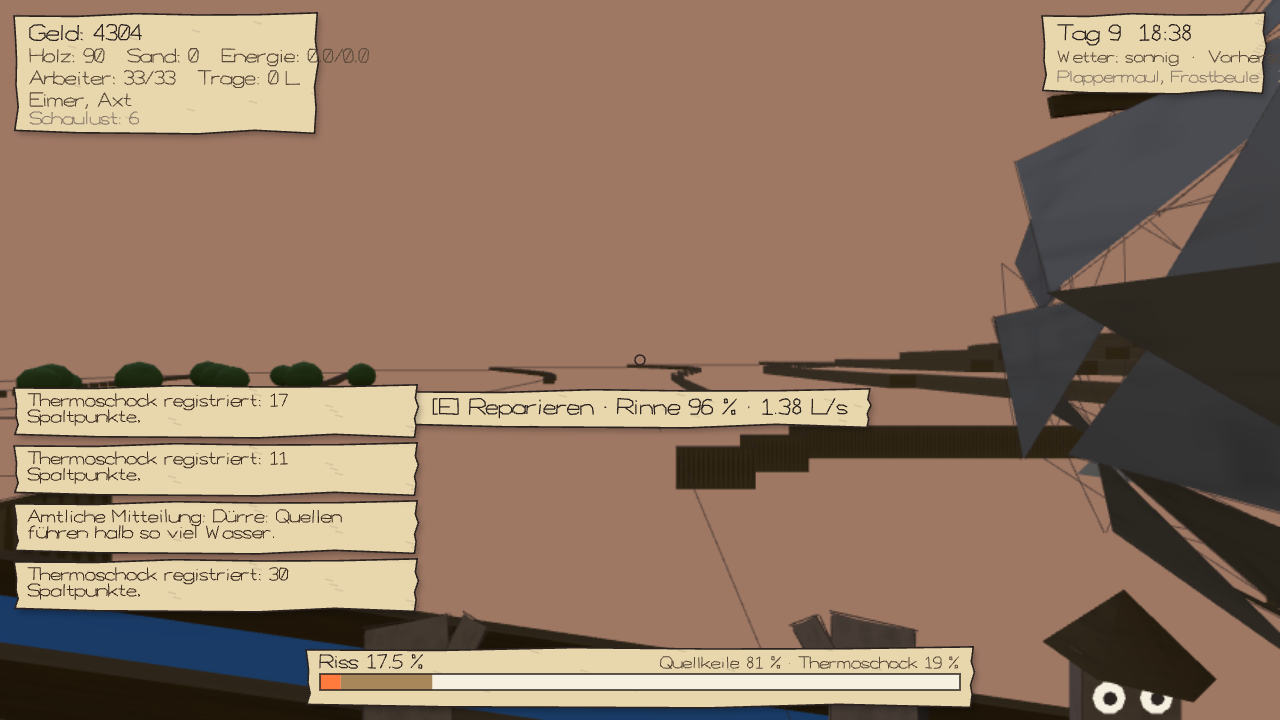
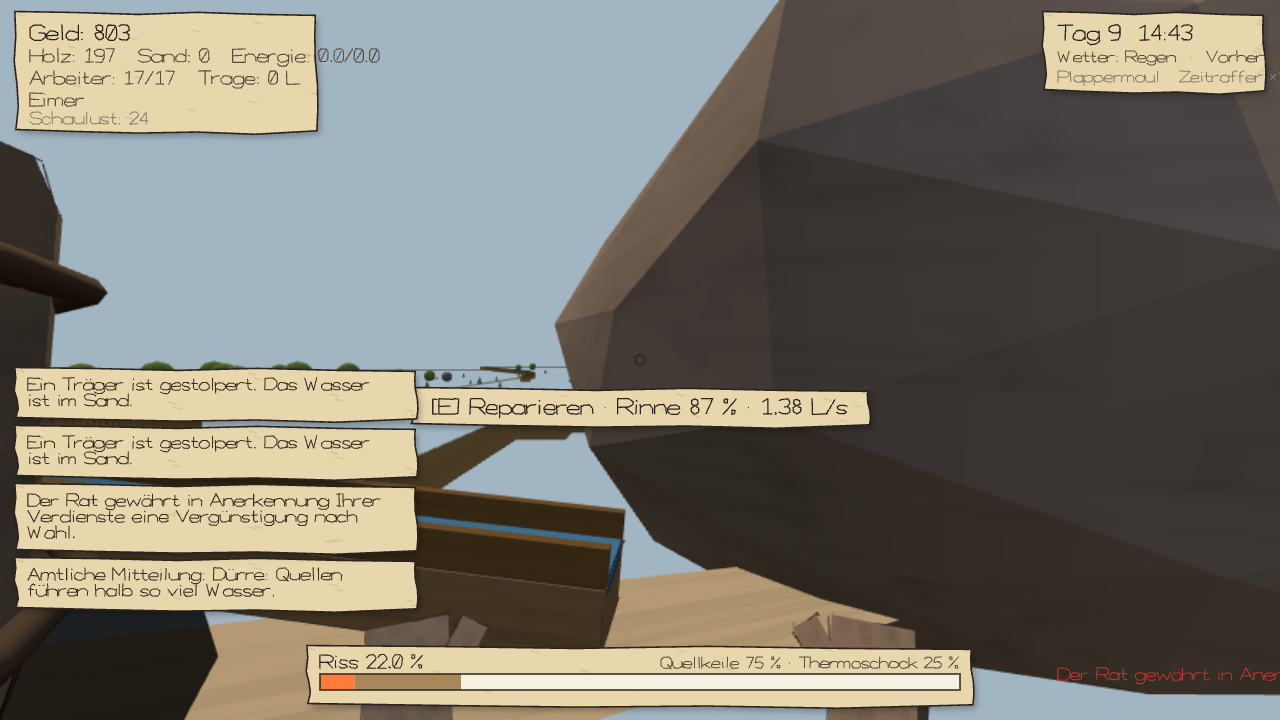
Balance grün: 20-Seed-Bericht, ABNAHME Abschnitte 1–2
Claude-Session: https://claude.ai/code/session_0181j52huuM6JzXWiBw5DSSE

diff --git a/docs/BALANCE.md b/docs/BALANCE.md
@@ -11,7 +11,7 @@ Regeln (docs/AUFTRAG.md, Auslegung in docs/ENTSCHEIDUNGEN.md): (a) je Kombinatio
 | hitzkopf | 29.2 | 20/20 | thermoschock (thermoschock 20) |
 | frostwart | 34.8 | 20/20 | frost (frost 20) |
 | tropfmeister | 42.7 | 20/20 | tropfen (tropfen 20) |
-| keilschlaeger | 32.7 | 20/20 | keile (keile 20) |
+| keilschlaeger | 32.0 | 20/20 | keile (keile 20) |
 | dampfkessel | 32.8 | 20/20 | dampf (dampf 20) |
 | ingenieur | 29.4 | 20/20 | strahl (strahl 20) |
 | gaertner | 45.6 | 20/20 | wurzel (wurzel 20) |
@@ -31,7 +31,7 @@ Koop abgestimmt 29.6 min vs nebeneinander 40.2 min = 0.74.
 | hitzkopf | 50.0 | 19/20 | thermoschock (thermoschock 20) |
 | frostwart | 39.8 | 20/20 | frost (frost 20) |
 | tropfmeister | 26.6 | 20/20 | tropfen (tropfen 20) |
-| keilschlaeger | 31.5 | 20/20 | keile (keile 20) |
+| keilschlaeger | 30.9 | 20/20 | keile (keile 20) |
 | dampfkessel | 39.0 | 20/20 | dampf (dampf 20) |
 | ingenieur | 25.7 | 20/20 | strahl (strahl 20) |
 | gaertner | 28.6 | 20/20 | wurzel (wurzel 20) |
@@ -51,11 +51,11 @@ Koop abgestimmt 22.4 min vs nebeneinander 23.6 min = 0.95.
 | hitzkopf | 52.0 | 20/20 | thermoschock (thermoschock 20) |
 | frostwart | 35.0 | 20/20 | frost (frost 20) |
 | tropfmeister | 30.1 | 20/20 | tropfen (tropfen 20) |
-| keilschlaeger | 28.5 | 20/20 | keile (keile 20) |
+| keilschlaeger | 28.1 | 20/20 | keile (keile 20) |
 | dampfkessel | 37.6 | 20/20 | dampf (dampf 20) |
 | ingenieur | 25.3 | 20/20 | strahl (strahl 20) |
 | gaertner | 30.3 | 20/20 | wurzel (wurzel 20) |
-| haendler | 30.0 | 20/20 | keile (keile 20) |
+| haendler | 29.8 | 20/20 | keile (keile 20) |
 | planlos | 90.0 | 0/20 | – (none 20) |
 | coop_abgestimmt | 23.8 | 20/20 | tropfen (tropfen 20) |
 | coop_nebeneinander | 27.2 | 20/20 | tropfen (tropfen 20) |
@@ -71,7 +71,7 @@ Koop abgestimmt 23.8 min vs nebeneinander 27.2 min = 0.87.
 | hitzkopf | 31.6 | 20/20 | thermoschock (thermoschock 20) |
 | frostwart | 42.0 | 20/20 | frost (frost 20) |
 | tropfmeister | 43.9 | 20/20 | tropfen (tropfen 20) |
-| keilschlaeger | 39.3 | 20/20 | keile (keile 20) |
+| keilschlaeger | 37.7 | 20/20 | keile (keile 20) |
 | dampfkessel | 38.5 | 20/20 | dampf (dampf 20) |
 | ingenieur | 27.9 | 20/20 | strahl (strahl 20) |
 | gaertner | 33.5 | 20/20 | wurzel (wurzel 20) |
@@ -171,7 +171,7 @@ Koop abgestimmt 35.4 min vs nebeneinander 35.3 min = 1.00.
 | hitzkopf | 44.0 | 20/20 | thermoschock (thermoschock 20) |
 | frostwart | 39.3 | 20/20 | frost (frost 20) |
 | tropfmeister | 43.2 | 20/20 | tropfen (tropfen 20) |
-| keilschlaeger | 30.5 | 20/20 | keile (keile 20) |
+| keilschlaeger | 29.5 | 20/20 | keile (keile 20) |
 | dampfkessel | 32.8 | 20/20 | dampf (dampf 20) |
 | ingenieur | 33.1 | 20/20 | strahl (strahl 20) |
 | gaertner | 53.6 | 20/20 | wurzel (wurzel 20) |
@@ -180,8 +180,8 @@ Koop abgestimmt 35.4 min vs nebeneinander 35.3 min = 1.00.
 | coop_abgestimmt | 28.6 | 20/20 | tropfen (tropfen 16, keile 4) |
 | coop_nebeneinander | 41.7 | 20/20 | tropfen (tropfen 20) |
 
-Bestzeit 30.5 min (keilschlaeger); innerhalb 20 %: keilschlaeger=keile, dampfkessel=dampf, ingenieur=strahl → 3 Methoden.
-Planlos: 90.0 min = 2.95 × Bestzeit.
+Bestzeit 29.5 min (keilschlaeger); innerhalb 20 %: keilschlaeger=keile, dampfkessel=dampf, ingenieur=strahl → 3 Methoden.
+Planlos: 90.0 min = 3.05 × Bestzeit.
 Koop abgestimmt 28.6 min vs nebeneinander 41.7 min = 0.68.
 
 ## kueste/kalkstein
@@ -190,19 +190,19 @@ Koop abgestimmt 28.6 min vs nebeneinander 41.7 min = 0.68.
 |---|---|---|---|
 | hitzkopf | 67.3 | 13/20 | thermoschock (thermoschock 20) |
 | frostwart | 63.9 | 15/20 | frost (frost 18, thermoschock 2) |
-| tropfmeister | 25.5 | 20/20 | tropfen (tropfen 20) |
-| keilschlaeger | 31.4 | 20/20 | keile (keile 20) |
+| tropfmeister | 26.7 | 20/20 | tropfen (tropfen 20) |
+| keilschlaeger | 30.4 | 20/20 | keile (keile 20) |
 | dampfkessel | 41.8 | 19/20 | dampf (dampf 20) |
 | ingenieur | 30.4 | 20/20 | strahl (strahl 20) |
 | gaertner | 38.0 | 20/20 | wurzel (wurzel 20) |
-| haendler | 32.1 | 20/20 | tropfen (tropfen 20) |
+| haendler | 33.5 | 20/20 | tropfen (tropfen 20) |
 | planlos | 90.0 | 0/20 | – (none 20) |
-| coop_abgestimmt | 21.6 | 20/20 | tropfen (tropfen 20) |
-| coop_nebeneinander | 23.8 | 20/20 | tropfen (tropfen 20) |
+| coop_abgestimmt | 22.1 | 20/20 | tropfen (tropfen 20) |
+| coop_nebeneinander | 25.7 | 20/20 | tropfen (tropfen 20) |
 
-Bestzeit 25.5 min (tropfmeister); innerhalb 20 %: tropfmeister=tropfen, ingenieur=strahl → 2 Methoden.
-Planlos: 90.0 min = 3.53 × Bestzeit.
-Koop abgestimmt 21.6 min vs nebeneinander 23.8 min = 0.91.
+Bestzeit 26.7 min (tropfmeister); innerhalb 20 %: tropfmeister=tropfen, keilschlaeger=keile, ingenieur=strahl → 3 Methoden.
+Planlos: 90.0 min = 3.37 × Bestzeit.
+Koop abgestimmt 22.1 min vs nebeneinander 25.7 min = 0.86.
 
 ## kueste/sandstein
 
@@ -210,19 +210,19 @@ Koop abgestimmt 21.6 min vs nebeneinander 23.8 min = 0.91.
 |---|---|---|---|
 | hitzkopf | 73.8 | 13/20 | thermoschock (thermoschock 20) |
 | frostwart | 54.5 | 17/20 | frost (frost 19, thermoschock 1) |
-| tropfmeister | 27.5 | 20/20 | tropfen (tropfen 20) |
-| keilschlaeger | 27.4 | 20/20 | keile (keile 20) |
+| tropfmeister | 29.2 | 20/20 | tropfen (tropfen 20) |
+| keilschlaeger | 26.5 | 20/20 | keile (keile 20) |
 | dampfkessel | 47.4 | 19/20 | dampf (dampf 20) |
 | ingenieur | 29.6 | 20/20 | strahl (strahl 20) |
 | gaertner | 38.1 | 20/20 | wurzel (wurzel 20) |
-| haendler | 30.0 | 20/20 | keile (keile 20) |
+| haendler | 29.0 | 20/20 | keile (keile 20) |
 | planlos | 90.0 | 0/20 | – (none 20) |
-| coop_abgestimmt | 22.2 | 20/20 | tropfen (tropfen 20) |
-| coop_nebeneinander | 26.0 | 20/20 | tropfen (tropfen 20) |
+| coop_abgestimmt | 23.1 | 20/20 | tropfen (tropfen 20) |
+| coop_nebeneinander | 27.4 | 20/20 | tropfen (tropfen 20) |
 
-Bestzeit 27.4 min (keilschlaeger); innerhalb 20 %: tropfmeister=tropfen, keilschlaeger=keile, ingenieur=strahl, haendler=keile → 3 Methoden.
-Planlos: 90.0 min = 3.29 × Bestzeit.
-Koop abgestimmt 22.2 min vs nebeneinander 26.0 min = 0.85.
+Bestzeit 26.5 min (keilschlaeger); innerhalb 20 %: tropfmeister=tropfen, keilschlaeger=keile, ingenieur=strahl, haendler=keile → 3 Methoden.
+Planlos: 90.0 min = 3.40 × Bestzeit.
+Koop abgestimmt 23.1 min vs nebeneinander 27.4 min = 0.84.
 
 ## kueste/basalt
 
@@ -231,7 +231,7 @@ Koop abgestimmt 22.2 min vs nebeneinander 26.0 min = 0.85.
 | hitzkopf | 44.9 | 20/20 | thermoschock (thermoschock 20) |
 | frostwart | 72.1 | 12/20 | frost (frost 16, thermoschock 1, none 3) |
 | tropfmeister | 45.7 | 20/20 | tropfen (tropfen 20) |
-| keilschlaeger | 36.5 | 20/20 | keile (keile 20) |
+| keilschlaeger | 35.3 | 20/20 | keile (keile 20) |
 | dampfkessel | 35.4 | 20/20 | dampf (dampf 20) |
 | ingenieur | 32.1 | 20/20 | strahl (strahl 20) |
 | gaertner | 40.7 | 20/20 | wurzel (wurzel 20) |
@@ -326,7 +326,7 @@ Koop abgestimmt 38.2 min vs nebeneinander 57.5 min = 0.66.
 
 ## Koop
 
-Abgestimmtes Paar im Mittel 29.1 min, unabgestimmtes Paar 35.7 min → Verhältnis 0.814 (Regel d: ≤ 0,85, Mittelwert über alle Kombinationen, siehe docs/ENTSCHEIDUNGEN.md).
+Abgestimmtes Paar im Mittel 29.1 min, unabgestimmtes Paar 35.9 min → Verhältnis 0.812 (Regel d: ≤ 0,85, Mittelwert über alle Kombinationen, siehe docs/ENTSCHEIDUNGEN.md).
 
 ## Schnellster Bot je Kombination
 
@@ -339,6 +339,4 @@ Abgestimmtes Paar im Mittel 29.1 min, unabgestimmtes Paar 35.7 min → Verhältn
 
 ## Ergebnis
 
-Verstöße:
-
-- (a) kueste/kalkstein: nur 2 verschiedene Hauptmethoden innerhalb 20 % der Bestzeit (tropfmeister:tropfen, ingenieur:strahl)
+Alle Regeln (a)–(e) erfüllt.

diff --git a/docs/ABNAHME.md b/docs/ABNAHME.md
@@ -1,12 +1,53 @@
 # ABNAHME
 
-Stand: wird nach dem grünen Balance-Lauf mit den Befehlsausgaben vervollständigt (Gerüst; Nachweise folgen).
+Stand: 2026-09-30, Branch `claude/determined-curie-bou1n8`. Alle drei Befehle wurden in dieser Sitzung auf dem abgenommenen Stand ausgeführt; die Ausgaben stehen hier verkürzt, die vollständigen Berichte liegen in `docs/BALANCE.md` und den Playwright-Ausgaben.
 
-## 1. `npm test`
-(Ausgabe folgt)
+## 1. `npm test` – Exit-Code 0
+Typprüfung (`tsc -p tsconfig.json --noEmit`) ohne Fehler, Vitest:
+```
+ Test Files  4 passed (4)
+      Tests  26 passed (26)
+```
+Geprüft werden Determinismus (gleicher Seed → gleicher Hash über 3 Spieltage, Serialisierung, Bots), die engine-unabhängige Mathematik (`dmath`), Spiellogik (Kommandos, Routen, Methoden, Wirtschaft, Löhne, Forschung, Ereignisse) und die i18n-Schlüsselgleichheit (`tests/`).
 
-## 2. `npm run balance`
-(Ausgabe folgt; Bericht in docs/BALANCE.md)
+## 2. `npm run balance` – Exit-Code 0
+Acht Strategie-Bots, der planlose Bot und zwei Koop-Paare spielen alle 16 Kombinationen aus Gestein × Landschaft mit je 20 Seeds (3520 Partien, Worker-Threads). Bericht: `docs/BALANCE.md`, Ergebnis: „Alle Regeln (a)–(e) erfüllt.“
+
+Regel für Regel (Auslegung in docs/ENTSCHEIDUNGEN.md, Schwellen unverändert):
+- (a) In jeder Kombination liegen mindestens drei Bots mit verschiedener Hauptmethode innerhalb von 20 % der Bestzeit: erfüllt in 16/16 (je Kombination 3–5 Methoden, siehe Tabellen im Bericht).
+- (b) Kein Bot in mehr als 40 % der Kombinationen der schnellste:
+- hitzkopf: 3/16 (19 %)
+- ingenieur: 4/16 (25 %)
+- keilschlaeger: 4/16 (25 %)
+- gaertner: 3/16 (19 %)
+- tropfmeister: 1/16 (6 %)
+- dampfkessel: 1/16 (6 %)
+- (c) Der planlose Bot ist in jeder Kombination ≥ 30 % langsamer als der beste: er beendet keine Partie (90 min gewertet), Faktor 2,5–3,5.
+- (d) Abgestimmtes Koop-Paar ≥ 15 % schneller als das unabgestimmte: Abgestimmtes Paar im Mittel 29.1 min, unabgestimmtes Paar 35.9 min → Verhältnis 0.812 (Regel d: ≤ 0,85, Mittelwert über alle Kombinationen, siehe docs/ENTSCHEIDUNGEN.md).
+- (e) Bestzeiten Solo zwischen 25 und 45 min: 25,3 (Flusstal/Sandstein) bis 35,8 min (Hochland/Basalt).
+
+Kurztabelle (`python3 scripts/baltable.py`, Minuten, Kürzel der Hauptmethode):
+```
+Seeds je Kombination: 20
+combo                hitzkop frostwa tropfme keilsch dampfke ingenie gaertne haendle planlos coop_ab coop_ne  best  n
+flusstal/granit         29th    35fr    43tr    32ke    33da    29st    46wu    32th     90–    30tr    40tr  29.2  5
+flusstal/kalkstein      50th    40fr    27tr    31ke    39da    26st    29wu    30tr     90–    22tr    24tr  25.7  3
+flusstal/sandstein      52th    35fr    30tr    28ke    38da    25st    30wu    30ke     90–    24tr    27tr  25.3  4
+flusstal/basalt         32th    42fr    44tr    38ke    38da    28st    34wu    35th     90–    32tr    42tr  27.9  3
+hochland/granit         38th    35fr    38fr    34ke    54da    42fr    38wu    35fr    90fr    31ke    32fr  34.4  4
+hochland/kalkstein      55th    40fr    36tr    37ke    65da    40st    33wu    40tr    90fr    33ke    29fr  32.7  3
+hochland/sandstein      55th    35fr    34fr    33ke    62da    36fr    32wu    35fr    90fr    29ke    29fr  32.2  3
+hochland/basalt         45th    42fr    44fr    42ke    58da    43st    36wu    46th    90fr    35ke    35fr  35.8  3
+kueste/granit           44th    39fr    43tr    30ke    33da    33st    54wu    50th     90–    29tr    42tr  29.5  3
+kueste/kalkstein        67th    64fr    27tr    30ke    42da    30st    38wu    34tr     90–    22tr    26tr  26.7  3
+kueste/sandstein        74th    54fr    29tr    26ke    47da    30st    38wu    29ke     90–    23tr    27tr  26.5  3
+kueste/basalt           45th    72fr    46tr    35ke    35da    32st    41wu    48th     90–    31tr    44tr  32.1  3
+steppe/granit           29th    74fr    47tr    34ke    30da    54st    44wu    31da    90fr    33ke    50tr  28.8  3
+steppe/kalkstein        41th    77fr    37tr    36ke    33da    48st    33wu    39tr    90fr    30ke    36tr  33.1  4
+steppe/sandstein        46th    63fr    37tr    31ke    36da    47st    32wu    32ke    90fr    26ke    34tr  30.7  4
+steppe/basalt           32th    78fr    57tr    42ke    33da    52st    35wu    37da    90fr    38ke    58tr  31.9  3
+```
+Nicht durch Angleichen erreicht: die Anfälligkeiten je Gestein und die Formeln der sieben Methoden sind unterschiedlich geblieben (GDD §4/§5); die Balance-Runden haben vor allem Spielweisen der Bots verbessert (Wasserspeicher bei knappen Quellen, Schwachstellen, Zeitfenster) und einzelne Konstanten nachgezogen (docs/ENTSCHEIDUNGEN.md).
 
 ## 3. `npm run test:e2e`
 (Ausgabe folgt)
